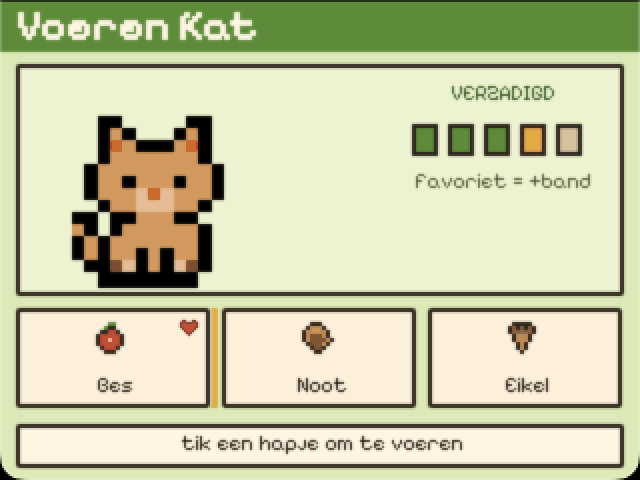
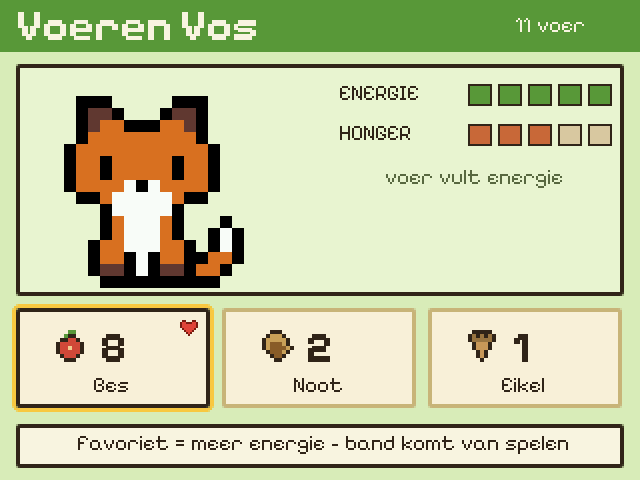
site: verzamelaar track is real — new screenshots and game modes
- 11 fresh 640x480 emulator captures: op pad home, plukken, oogst,
  snuffelen, vonk, vriendenboekje, beestenschool, vliegen, vangen, simon,
  and the reworked voeren (replaces the old shot)
- spoiler discipline kept: same Vos+Kat reveal as the existing shots,
  vonk-geluk suppressed during capture so no third creature leaks
- Home.tsx: 'binnenkort' tags dropped; verzamelen section rebuilt around
  the economy chain (plukken -> voorraad -> spelen) with six shots;
  snuffelen section updated to the automatic picknick, vonk-geluk and the
  vriendenboekje with three shots; nav gains Verzamelen

Changed region(s): [[0.0, 0.1875, 1.0, 1.0], [0.0312, 0.125, 0.9688, 0.4062], [0.0, 0.0, 1.0, 0.0938]]

diff --git a/server/src/components/Home.tsx b/server/src/components/Home.tsx
@@ -56,6 +56,7 @@ export const Home = () => (
       <a href="#spelen">Twee manieren</a>
       <a href="#begin">Beginnen</a>
       <a href="#jacht">De jacht</a>
+      <a href="#verzamelen">Verzamelen</a>
       <a href="#verzorgen">Verzorgen</a>
       <a class="nav-cta" href="/scores">
         Scorebord
@@ -162,7 +163,6 @@ export const Home = () => (
             </p>
           </article>
           <article class="card mode mode-gatherer">
-            <span class="ribbon">In ontwikkeling</span>
             <h3>
               <span class="icon" aria-hidden="true">
                 🧺
@@ -175,9 +175,10 @@ export const Home = () => (
               aan de WiFi die elke badge al aan boord heeft.
             </p>
             <p>
-              Je zoekt <b>plukplekken</b> op het terrein en speelt spelletjes.
-              Zo verzamel je bessen, noten, eikels en materiaal: precies wat de
-              beesten nodig hebben om te groeien.
+              Drie werkwoorden: <b>snuffelen</b> (zoek andere spelers op),{" "}
+              <b>plukken</b> (loop naar plukplekken voor eten) en <b>spelen</b>{" "}
+              (speel spelletjes met je beest). Alles wat je daarvoor nodig hebt
+              zit al op de badge.
             </p>
           </article>
         </div>
@@ -296,50 +297,90 @@ export const Home = () => (
       <div class="wrap">
         <h2>
           Verzamelen <span class="tag tag-gatherer">verzamelaar</span>
-          <span class="tag tag-soon">binnenkort</span>
         </h2>
         <p class="intro">
-          Geen antenne? Dan is er nog altijd genoeg te doen buiten. Verzamelaars
-          halen uit het kamp wat de beesten nodig hebben.
+          Geen antenne? Dan is er nog altijd genoeg te doen buiten. De hele
+          kringloop in één zin: <b>plukken geeft eten, eten geeft energie, en
+          met energie kan je spelen</b> — en van spelen groeit je band.
         </p>
+        <Shot
+          src="oppad"
+          alt="Het beginscherm van een verzamelaar met de knoppen snuffelen en plukken"
+          caption="Op pad: snuffelen en plukken staan vooraan, je boek eronder."
+          big
+        />
         <div class="cards cards-3">
           <div class="card">
             <span class="icon" aria-hidden="true">
               📶
             </span>
-            <h3>Plukplekken</h3>
+            <h3>Plukken</h3>
             <p>
-              Kleine WiFi-bakens, verspreid over het terrein. Je badge zoekt
-              ernaar en jij loopt erheen: hetzelfde warmer-kouder-gevoel als de
-              jacht, maar zonder antenne — en makkelijk genoeg voor een
-              zevenjarige.
+              Op het terrein hangen WiFi-hotspots. Je badge luistert ernaar en
+              jij loopt erheen: hetzelfde warmer-kouder-gevoel als de jacht,
+              maar zonder antenne — en makkelijk genoeg voor een zevenjarige.
+            </p>
+          </div>
+          <div class="card">
+            <span class="icon" aria-hidden="true">
+              🫐
+            </span>
+            <h3>De voorraad</h3>
+            <p>
+              Elke pluk levert bessen, noten of eikels op. Daarna is die plek
+              voor jou even leeg — dus loop je door naar de volgende. Elke dag
+              geven de plekken iets anders.
             </p>
           </div>
           <div class="card">
             <span class="icon" aria-hidden="true">
               🎮
             </span>
-            <h3>Spelletjes</h3>
+            <h3>Spelen</h3>
             <p>
-              Een tiltdoolhof, een ritmespel, LED-Simon. Elk beest heeft zijn
-              eigen lievelingsspel, en daar is het net iets beter in.
-            </p>
-          </div>
-          <div class="card">
-            <span class="icon" aria-hidden="true">
-              🗺
-            </span>
-            <h3>Opdrachten</h3>
-            <p>
-              Korte wandelingen, workshops en stations in het kamp. Overal valt
-              iets te halen: bessen, noten, eikels en zeldzamer spul.
+              In de beestenschool kiest je beest een spelletje. Spelen kost
+              energie en geeft <b>band</b> — en elk beest heeft een
+              lievelingsspel dat extra telt.
             </p>
           </div>
         </div>
+        <div class="shots">
+          <Shot
+            src="plukken"
+            alt="Het plukscherm met warmtemeter en de knop PLUK"
+            caption="Volg het signaal tot de meter warm staat. Dan mag je plukken."
+          />
+          <Shot
+            src="oogst"
+            alt="Geplukt: de voorraad groeit met twee bessen"
+            caption="De oogst valt in je voorraad. Deze plek is nu even leeg — op naar de volgende."
+          />
+          <Shot
+            src="school"
+            alt="De beestenschool met drie spelletjes en hun energiekost"
+            caption="De beestenschool: drie spelletjes, elk met een energieprijsje. Goud = het lievelingsspel."
+          />
+          <Shot
+            src="vliegen"
+            alt="Het vliegspel: de Vos fladdert tussen takken door"
+            caption="VLIEGEN — tik om te fladderen, ontwijk de takken."
+          />
+          <Shot
+            src="vangen"
+            alt="Het vangspel: de Vos vangt vallende hapjes"
+            caption="VANGEN — je beest draaft heen en weer, tik om te keren en vang de hapjes."
+          />
+          <Shot
+            src="simon"
+            alt="Simon: vier gekleurde vlakken"
+            caption="SIMON — volg de kleuren en de lampjes op je badge."
+          />
+        </div>
         <p class="note">
-          Plukplekken wisselen van plaats, zodat verzamelen een verkenning
-          blijft en niemand op één plek gaat kamperen. En sommige lekkernijen
-          vind je alleen zo — dus ook jagers komen bij de verzamelaars langs.
+          Een geplukte plek is alleen voor <i>jou</i> even leeg, en elke dag
+          geven de plekken iets anders. Verzamelen blijft dus een verkenning —
+          en ook jagers komen eten tekort, dus die zie je hier net zo goed
+          rondlopen.
         </p>
       </div>
     </section>
@@ -359,8 +400,8 @@ export const Home = () => (
           />
           <Shot
             src="voeren"
-            alt="Voerscherm met bes, noot en eikel"
-            caption="Bes, noot of eikel. Elk beest heeft een lievelingshapje, en dat geeft extra band."
+            alt="Voerscherm met de voorraad aan bessen, noten en eikels"
+            caption="Bes, noot of eikel, recht uit je voorraad. Voeren vult de energie — en het lievelingshapje vult extra."
           />
           <Shot
             src="dossier"
@@ -382,9 +423,7 @@ export const Home = () => (
 
     <section class="band band-forest" id="samen">
       <div class="wrap">
-        <h2>
-          Elkaar tegenkomen <span class="tag tag-soon">binnenkort</span>
-        </h2>
+        <h2>Elkaar tegenkomen</h2>
         <div class="cards cards-2">
           <article class="card">
             <h3>
@@ -394,10 +433,12 @@ export const Home = () => (
               Snuffelen
             </h3>
             <p>
-              Hou twee badges met hun neuzen tegen elkaar. Via WiFi wisselen ze
-              iets uit: het <b>spoor</b> van een beest, een hapje uit je
-              voorraad, of gewoon een speeldate. Bij een geslaagde snuffel
-              juichen allebei de badges tegelijk.
+              Hou twee badges met hun neuzen tegen elkaar en allebei juichen
+              ze tegelijk. Je hoeft niets te kiezen: elke snuffel is vanzelf
+              een <b>picknick</b> — jullie krijgen allebei eten. En de eerste
+              keer dat twee badges elkaar <i>ooit</i> tegenkomen, schrijven ze
+              elkaar in hun <b>vriendenboekje</b>. Dat boekje raak je nooit
+              kwijt.
             </p>
             <p class="fine">
               De technologie hierachter heet ESP-NOW. Ze draagt verder dan een
@@ -415,16 +456,35 @@ export const Home = () => (
               De vonk
             </h3>
             <p>
-              De eerste keer per dag dat je iemand <i>nieuw</i> tegenkomt,
-              levert dat jullie allebei een <b>vonk</b> op. Bij dezelfde persoon
-              nog eens snuffelen mag altijd — spullen doorgeven blijft werken —
-              maar het levert die dag geen vonk meer op.
+              De eerste keer per dag dat je iemand tegenkomt, is het een{" "}
+              <b>vonk</b>: een flinke picknick — en met wat geluk stelt een
+              beest van de ander zich aan jou voor. Zo verspreiden de beesten
+              zich over het kamp, van speler naar speler.
             </p>
             <p class="fine">
-              Zo loont het om nieuwe mensen aan te spreken, en niet om in een
-              hoekje met dezelfde vriend te blijven staan.
+              Nog eens snuffelen met dezelfde persoon mag altijd (even uit
+              elkaar stappen en opnieuw): je krijgt dan een hapje voor
+              onderweg, maar geen nieuwe vonk. Nieuwe mensen aanspreken loont
+              dus het meest.
             </p>
           </article>
+        </div>
+        <div class="shots">
+          <Shot
+            src="snuffelen"
+            alt="Het snuffelscherm met spelers in de buurt en signaalbalkjes"
+            caption="Wie wil er snuffelen? Sam staat dichtbij — hou de badges tegen elkaar."
+          />
+          <Shot
+            src="vonk"
+            alt="VONK! Twee maatjes delen een picknick van twee bessen"
+            caption="VONK! Jullie delen een picknick, en Sam staat nu in je vriendenboekje."
+          />
+          <Shot
+            src="vriendenboekje"
+            alt="Het vriendenboekje met een pagina voor Sam"
+            caption="Elke eerste ontmoeting is een pagina. Het boekje groeit het hele weekend."
+          />
         </div>
       </div>
     </section>
